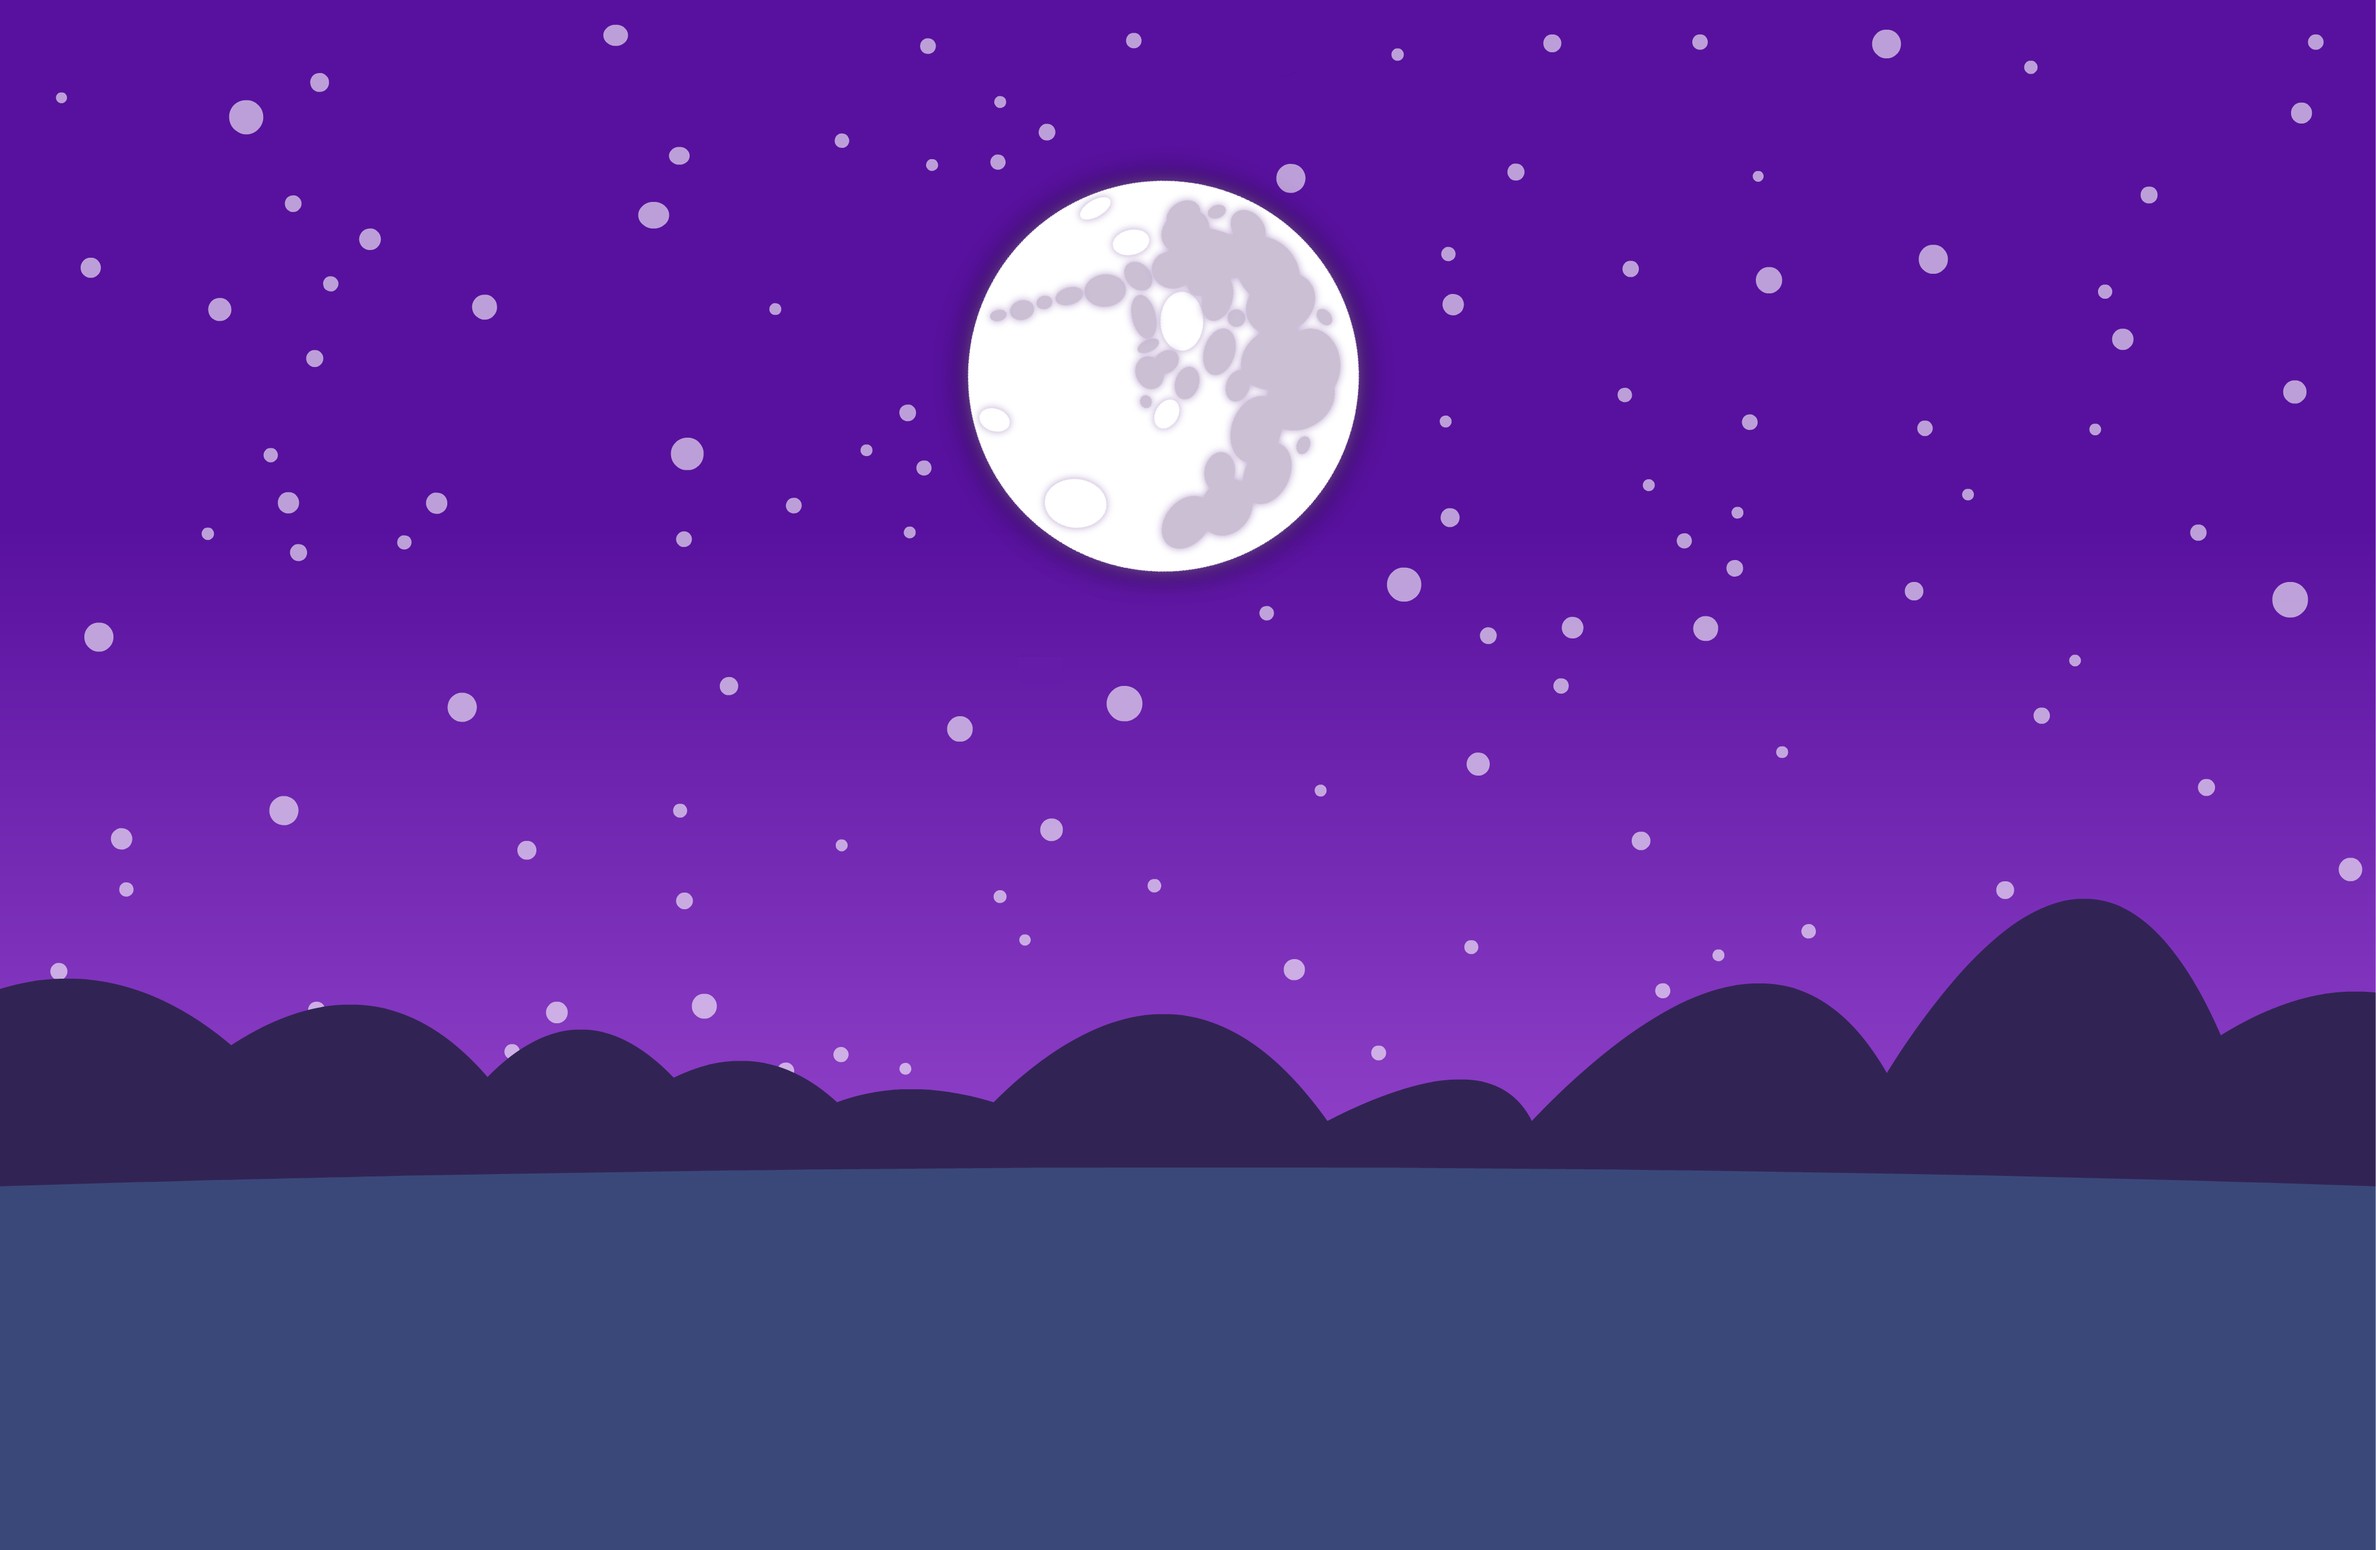
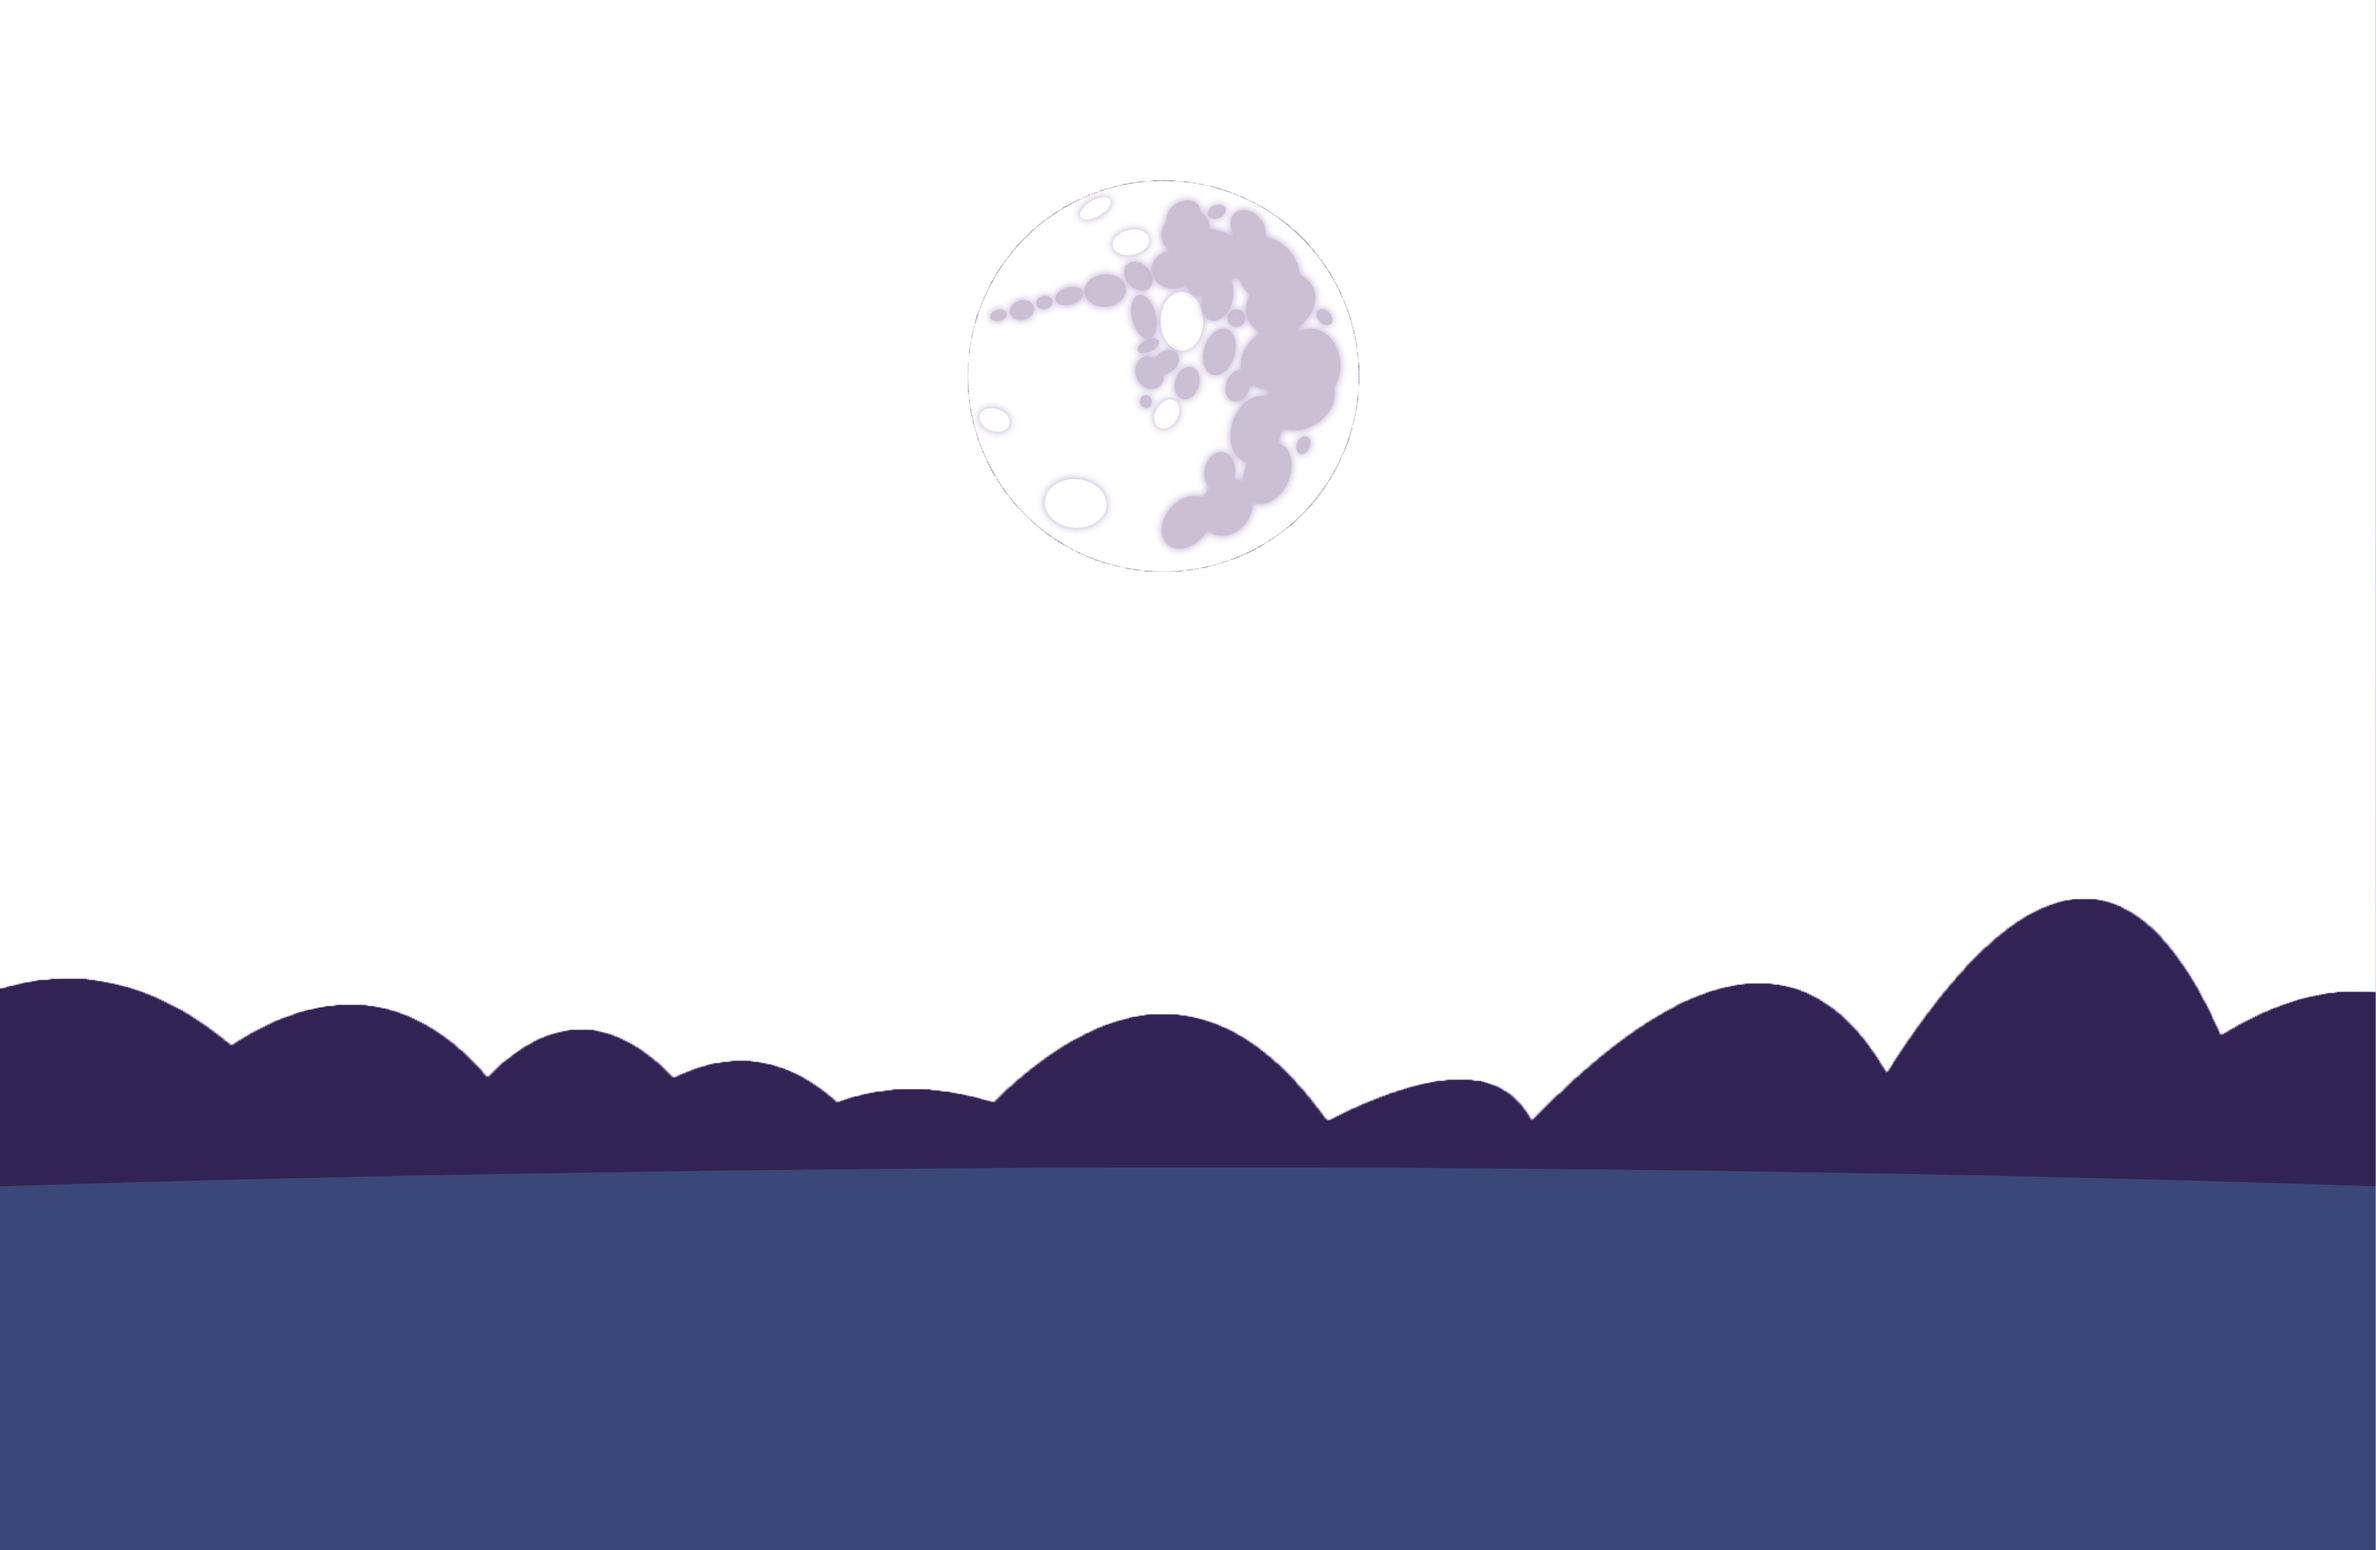
Light en dark mode toegevoegd (checkbox)

diff --git a/styles/style.css b/styles/style.css
@@ -1,5 +1,5 @@
 :root {
-  --walking: 2s;
+  --walking: 5s;
   --rocket-up: 3s;
   --explode: 3s;
 }
@@ -13,10 +13,20 @@ body {
   justify-content: center;
   align-items: center;
   /* dark mode */
-  /* background-color: rgba(0, 0, 0, 0.746); */
+  background-color: cadetblue;
   background-image: url("../images/landschap.png");
   background-repeat: no-repeat;
   background-size: cover;
+  transition: 0.5s ease;
+}
+
+/* Stijl voor de labels/radiobuttons */
+label {
+  cursor: pointer;
+  margin-right: 1em;
+  /* padding: 0.5em;
+  background-color: white;
+  border-radius: 2em; */
 }
 
 h1 {
@@ -106,6 +116,8 @@ label:nth-of-type(2) {
 
 label:first-of-type {
   background-color: green;
+  position: absolute;
+  left: 3em;
 }
 
 label:nth-of-type(1):has(input[type="checkbox"]:checked)
@@ -116,6 +128,18 @@ label:nth-of-type(1):has(input[type="checkbox"]:checked)
 label:nth-of-type(2):has(input[type="checkbox"]:checked)
   + section:nth-of-type(2) {
   display: block;
+}
+
+/* light mode */
+body:has(label:nth-of-type(3) input[type="checkbox"]:checked) {
+  background-color: white;
+  color: black;
+}
+
+/* Dark mode */
+body:has(label:nth-of-type(4) input[type="checkbox"]:checked) {
+  background-color: black;
+  color: white;
 }
 
 section:nth-of-type(1) {
@@ -147,15 +171,15 @@ section:nth-of-type(2) div:before {
 }
 
 section:nth-of-type(3) {
-  left: 70%;
-  top: 30%;
+  left: 80%;
+  top: 15%;
   transform: scale(0.8);
 }
 section:nth-of-type(3) div:before {
-  animation: firework 6s ease-in-out;
+  animation: firework 6s ease-in-out infinite;
   background-color: royalblue;
   /* box-shadow: blue 0 0 50px; */
-  animation-delay: calc(var(--walking) + var(--rocket-up));
+  animation-delay: calc(var(--walking) + 0.75s);
 }
 
 section:nth-of-type(4) {
@@ -169,11 +193,19 @@ section:nth-of-type(4) {
   width: 5rem;
   height: 5rem;
   animation: move-firework ease-in-out alternate;
-  animation-delay: calc(var(--walking));
+  animation-delay: calc(var(--walking) / 1.5);
   animation-duration: var(--rocket-up);
   animation-fill-mode: both;
   /* outline: 2px solid #f09; */
   outline-offset: 5px;
+}
+
+section:nth-of-type(4) div:before {
+  animation: firework ease-in-out;
+  /* animation: firework 5s 1s ease-in-out infinite; */
+  background-color: red;
+  animation-delay: calc(var(--walking) + var(--rocket-up));
+  animation-duration: var(--explode);
 }
 
 article:nth-of-type(1) {
@@ -187,28 +219,20 @@ article:nth-of-type(2) {
   position: absolute;
 }
 
-#pijl {
+article:nth-of-type(1) {
   width: 1em;
   height: 1em;
   /* background-color: white; */
   animation: arrow 4s cubic-bezier(0.55, 0.09, 0.68, 0.53) infinite;
 }
 
-#man {
+article:nth-of-type(2) {
   width: 1em;
   height: 1em;
   /* background-color: white; */
-  animation: walk cubic-bezier(0.55, 0.09, 0.68, 0.53);
+  animation: walk linear;
   animation-duration: var(--walking);
   animation-fill-mode: both;
-}
-
-section:nth-of-type(4) div:before {
-  animation: firework ease-in-out;
-  /* animation: firework 5s 1s ease-in-out infinite; */
-  background-color: red;
-  animation-delay: calc(var(--walking) + var(--rocket-up));
-  animation-duration: var(--explode);
 }
 
 section:nth-of-type(5) {
@@ -222,21 +246,22 @@ section:nth-of-type(5) div:before {
   animation: firework 4s ease-in-out;
   /* Diffrent color for every explosion  */
   background-color: #f5cf52;
-  animation-delay: calc(var(--walking) + var(--rocket-up));
+  animation-delay: calc(var(--walking) + 1.5s);
 }
 
 section:nth-of-type(6) {
-  background-image: conic-gradient(
+  /* background-image: conic-gradient(
     from var(--angle, 0deg),
     crimson,
     dodgerblue,
     crimson
-  );
+  ); */
+  background-image: url("../images/day-night.png");
 
-  animation: draaien 1s linear infinite, circleMove 4s ease-in-out infinite;
+  animation: draaien 1s linear infinite;
   height: 5em;
   width: 5em;
-  bottom: 0;
+  top: 0;
   left: 0;
   border-radius: 100%;
 }
@@ -271,8 +296,16 @@ section:nth-of-type(6) {
 }
 
 @keyframes move-firework {
-  to {
-    translate: 0px -28rem;
+  0% {
+    translate: 0 0rem;
+  }
+
+  90% {
+    translate: 0 -28rem;
+  }
+  100% {
+    display: none;
+    translate: 0 -28rem;
   }
 }
 
@@ -296,10 +329,11 @@ section:nth-of-type(6) {
 
 @keyframes walk {
   from {
-    transform: translateX(0);
+    transform: translateX(-30vw);
   }
   to {
-    transform: translateX(50vw);
+    transform: translateX(100vw);
+    display: none;
   }
 }
 

diff --git a/index.html b/index.html
@@ -11,6 +11,7 @@
     <!-- Title hidden -->
     <h1>Css</h1>
     <!-- First explosion -->
+
     <!-- Explosion by input of the user -->
     <label> <input type="checkbox" name="groen" />Groen! </label>
 
@@ -55,6 +56,7 @@
       <div></div>
     </section>
     <!-- Fourth explosion -->
+    <!-- vuurpijl -->
     <section>
       <div></div>
       <div></div>
@@ -79,14 +81,20 @@
     </section>
 
     <!-- draaien -->
-    <!-- <section></section> -->
+    <section></section>
 
-    <article id="pijl">
-      <img src="./images/ufo.gif" alt="pijl" />
+    <!-- light / dark mode -->
+    <label> <input type="checkbox" name="lightmode" />Light mode! </label>
+    <label> <input type="checkbox" name="darkmode" />Dark mode! </label>
+
+    <article>
+      <!-- <img src="./images/ufo.gif" alt="pijl" /> -->
     </article>
 
-    <article id="man">
+    <article>
       <img src="./images/walk2.gif" alt="walking" />
     </article>
+
+    <a href="http://127.0.0.1:5500/index.html">Speel opnieuw af</a>
   </body>
 </html>
